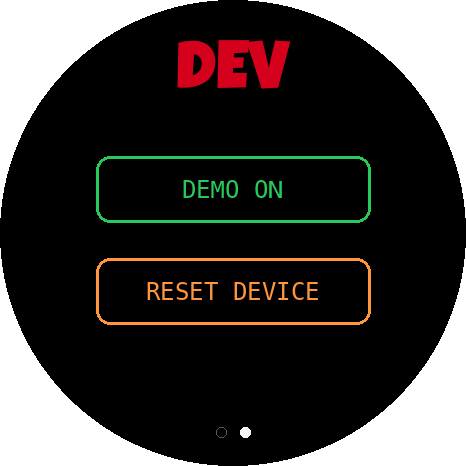
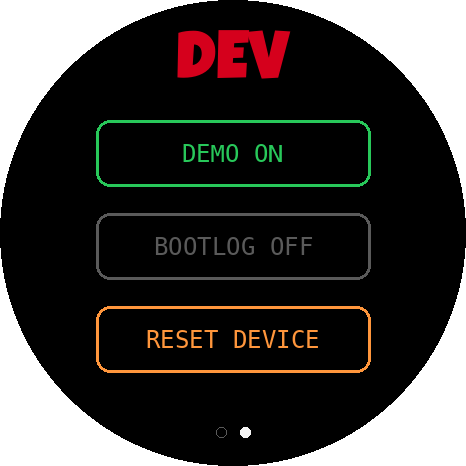
Add on-screen boot-log console, toggled from the dev actions page
New persisted BOOTLOG toggle (NVS): when on, every startup mirrors the
LOG lines (boot, touch, wifi, sign-in, websocket) to the display as a
live console, so connection problems can be debugged without a
computer. Tap the screen (or wait BOOTLOG_HOLD_MS) to continue to the
normal UI; the toggle stays on for future boots until switched off.

- log.h: LOGF/LOGLN also feed the bootlog line buffer (spinlock-
  protected ring; liveTask logs from core 0 land via a dirty flag,
  never rendering off the UI core).
- Dev actions page now stacks three buttons (DEMO / BOOTLOG / RESET)
  in new DEV_BTN_*_Y slots; the modal/backflush BTN_*_Y slots are
  unchanged. Factory reset clears the bootlog toggle too.
- Mockups: regenerate 07-dev-actions for the three-button layout.

Changed region(s): [[0.1803, 0.2403, 0.8112, 0.7811], [0.3605, 0.0601, 0.6309, 0.2103], [0.2103, 0.7811, 0.7811, 0.8112]]

diff --git a/firmware/src/main.cpp b/firmware/src/main.cpp
@@ -1,5 +1,6 @@
 #include <Arduino.h>
 
+#include "bootlog.h"
 #include "config.h"
 #include "display.h"
 #include "lm_client.h"
@@ -170,6 +171,7 @@ static void repaintCurrent() {
 }
 
 void setup() {
+    bootlogInit();  // before the first LOG line, so the console captures everything
     Serial.begin(115200);
     delay(300);  // let USB CDC enumerate so early logs aren't lost
     LOGLN("\n[boot] La Marzocco brew-timer display");
@@ -179,11 +181,17 @@ void setup() {
     displayInit();
     LOGLN("[boot] display init done");
 
-    displayLogo();
-    delay(1800);
+    if (bootlogActive()) {
+        bootlogSetInline(true);  // boot phase is single-threaded: redraw per LOG line
+        displayBootlog();        // show what was captured before the panel was up
+    } else {
+        displayLogo();
+        delay(1800);
+    }
 
     touchBegin();
     lmBegin();  // connects WiFi + NTP and starts the cloud poller (LIVE mode)
+    bootlogSetInline(false);  // from here loop() drives redraws (liveTask logs from core 0)
     g_mode = MODE_IDLE;
     g_idleScreen = -1;  // idle screen renders on the first loop
 }
@@ -191,6 +199,24 @@ void setup() {
 void loop() {
     lmPoll();
     uint32_t now = millis();
+
+    // Boot-log console: shown from power-on while the dev toggle is on. A tap (or the
+    // BOOTLOG_HOLD_MS timeout) leaves it for this boot; the toggle itself stays on.
+    if (bootlogActive()) {
+        int bx = 0, by = 0;
+        static bool blPrevDown = false;
+        bool blDown = touchPoint(&bx, &by);
+        bool blTap = blDown && !blPrevDown;
+        blPrevDown = blDown;
+        if (blTap || now >= BOOTLOG_HOLD_MS) {
+            bootlogDismiss();
+            g_idleScreen = -1;  // fall through to the normal UI next loop
+        } else if (bootlogTakeDirty()) {
+            displayBootlog();
+        }
+        delay(33);
+        return;
+    }
 
     // Always return to the status page after the machine powers off (consistent start order).
     static bool prevOff = true;
@@ -283,11 +309,12 @@ void loop() {
     bool tapConsumed = false;
     if (rising && g_dev) {
         const int M = 12;
-        bool a = inRect(tx, ty, BTN_X - M, BTN_A_Y - M, BTN_W + 2 * M, BTN_H + 2 * M);
-        bool b = inRect(tx, ty, BTN_X - M, BTN_B_Y - M, BTN_W + 2 * M, BTN_H + 2 * M);
         if (g_confirmReset) {
+            bool a = inRect(tx, ty, BTN_X - M, BTN_A_Y - M, BTN_W + 2 * M, BTN_H + 2 * M);
+            bool b = inRect(tx, ty, BTN_X - M, BTN_B_Y - M, BTN_W + 2 * M, BTN_H + 2 * M);
             if (a) {  // CONFIRM reset
                 displaySplash("RESETTING", "");
+                bootlogSetEnabled(false);  // factory reset clears the boot-log toggle too
                 lmFactoryReset();
                 delay(400);
                 ESP.restart();
@@ -296,12 +323,19 @@ void loop() {
                 g_devRedraw = true;
             }
             tapConsumed = true;  // modal swallows all taps (no accidental close)
-        } else if (g_devPage == 1) {
+        } else if (g_devPage == 1) {  // three stacked buttons: DEMO / BOOTLOG / RESET
+            bool a = inRect(tx, ty, BTN_X - M, DEV_BTN_A_Y - M, BTN_W + 2 * M, BTN_H + 2 * M);
+            bool b = inRect(tx, ty, BTN_X - M, DEV_BTN_B_Y - M, BTN_W + 2 * M, BTN_H + 2 * M);
+            bool c = inRect(tx, ty, BTN_X - M, DEV_BTN_C_Y - M, BTN_W + 2 * M, BTN_H + 2 * M);
             if (a) {  // DEMO toggle
                 lmSetDemo(!lmDemo());
                 g_devRedraw = true;
                 tapConsumed = true;
-            } else if (b) {  // RESET -> confirm
+            } else if (b) {  // BOOTLOG toggle (persisted; console shows on the next boots)
+                bootlogSetEnabled(!bootlogEnabled());
+                g_devRedraw = true;
+                tapConsumed = true;
+            } else if (c) {  // RESET -> confirm
                 g_confirmReset = true;
                 g_devRedraw = true;
                 tapConsumed = true;
@@ -370,7 +404,7 @@ void loop() {
             if (g_confirmReset)
                 displayResetConfirm();
             else if (g_devPage == 1)
-                displayDevActions(lmDemo());
+                displayDevActions(lmDemo(), bootlogEnabled());
             else
                 displayDevInfo(lmState(), down ? 1 : 0, lmDemo());
             g_lastDevRender = now;

diff --git a/firmware/src/bootlog.cpp b/firmware/src/bootlog.cpp
@@ -1,0 +1,80 @@
+#include "bootlog.h"
+
+#include <Arduino.h>
+#include <Preferences.h>
+
+#include "display.h"
+
+// NOTE: no LOG macros in here — log.h feeds bootlogAdd(), which would recurse.
+
+static char g_buf[BOOTLOG_LINES][BOOTLOG_COLS + 1];
+static int g_head = 0;  // next slot to write
+static int g_used = 0;
+static bool g_enabled = false;
+static bool g_active = false;
+static bool g_inline = false;
+static volatile bool g_dirty = false;
+static portMUX_TYPE g_mux = portMUX_INITIALIZER_UNLOCKED;
+
+void bootlogInit() {
+    Preferences p;
+    p.begin("bootlog", true);
+    g_enabled = p.getBool("on", false);
+    p.end();
+    g_active = g_enabled;  // capture from the very first LOG line
+}
+
+bool bootlogEnabled() { return g_enabled; }
+
+void bootlogSetEnabled(bool on) {
+    g_enabled = on;
+    Preferences p;
+    p.begin("bootlog", false);
+    p.putBool("on", on);
+    p.end();
+}
+
+bool bootlogActive() { return g_active; }
+void bootlogDismiss() { g_active = false; }
+
+bool bootlogTakeDirty() {
+    bool d = g_dirty;
+    g_dirty = false;
+    return d;
+}
+
+void bootlogSetInline(bool on) { g_inline = on; }
+
+void bootlogAdd(const char *line) {
+    if (!g_active || !line) return;
+    while (*line == '\n' || *line == '\r') line++;  // strip the leading blank of banners
+    if (!*line) return;
+
+    char tmp[BOOTLOG_COLS + 1];
+    int n = 0;
+    for (; n < BOOTLOG_COLS && line[n] && line[n] != '\n' && line[n] != '\r'; n++) tmp[n] = line[n];
+    tmp[n] = 0;
+
+    portENTER_CRITICAL(&g_mux);
+    memcpy(g_buf[g_head], tmp, n + 1);
+    g_head = (g_head + 1) % BOOTLOG_LINES;
+    if (g_used < BOOTLOG_LINES) g_used++;
+    portEXIT_CRITICAL(&g_mux);
+    g_dirty = true;
+
+    // Immediate redraw during the single-threaded boot phase. liveTask (core 0) must never
+    // touch the canvas — its lines land via the dirty flag and the UI loop instead.
+    if (g_inline && xPortGetCoreID() == 1) {
+        displayBootlog();
+        g_dirty = false;
+    }
+}
+
+int bootlogGetLines(char out[][BOOTLOG_COLS + 1], int max) {
+    portENTER_CRITICAL(&g_mux);
+    int n = g_used < max ? g_used : max;
+    int start = (g_head - g_used + BOOTLOG_LINES) % BOOTLOG_LINES;
+    for (int i = 0; i < n; i++) memcpy(out[i], g_buf[(start + i) % BOOTLOG_LINES], BOOTLOG_COLS + 1);
+    portEXIT_CRITICAL(&g_mux);
+    return n;
+}

diff --git a/firmware/src/display.cpp b/firmware/src/display.cpp
@@ -3,6 +3,7 @@
 #include <Arduino.h>
 #include <Arduino_GFX_Library.h>
 
+#include "bootlog.h"
 #include "config.h"
 #include "log.h"
 #include "fonts/LuckiestGuy36.h"
@@ -371,15 +372,38 @@ void displayDevInfo(const BrewState &s, int touchPoints, bool demoEnabled) {
     canvas->flush();
 }
 
-void displayDevActions(bool demoEnabled) {
+void displayDevActions(bool demoEnabled, bool bootlogOn) {
     uint16_t green = gfx->color565(120, 200, 165);
     uint16_t amber = gfx->color565(255, 150, 60);
     canvas->fillScreen(COL_BG);
-    drawCentered("DEV", 74, &LuckiestGuy36pt7b, COL_LM_RED);
-    drawButton(BTN_X, BTN_A_Y, BTN_W, BTN_H, demoEnabled ? "DEMO ON" : "DEMO OFF",
+    drawCentered("DEV", 64, &LuckiestGuy36pt7b, COL_LM_RED);
+    drawButton(BTN_X, DEV_BTN_A_Y, BTN_W, BTN_H, demoEnabled ? "DEMO ON" : "DEMO OFF",
                demoEnabled ? green : COL_DIM);
-    drawButton(BTN_X, BTN_B_Y, BTN_W, BTN_H, "RESET DEVICE", amber);
+    drawButton(BTN_X, DEV_BTN_B_Y, BTN_W, BTN_H, bootlogOn ? "BOOTLOG ON" : "BOOTLOG OFF",
+               bootlogOn ? green : COL_DIM);
+    drawButton(BTN_X, DEV_BTN_C_Y, BTN_W, BTN_H, "RESET DEVICE", amber);
     drawPageDots();
+    canvas->flush();
+}
+
+// Boot-log console: the most recent LOG lines, updated live while starting up.
+void displayBootlog() {
+    canvas->fillScreen(COL_BG);
+    drawCenteredClassic("BOOT LOG", 56, 2, COL_LM_RED);
+
+    char lines[BOOTLOG_LINES][BOOTLOG_COLS + 1];
+    int n = bootlogGetLines(lines, BOOTLOG_LINES);
+    canvas->setFont(NULL);
+    canvas->setTextSize(2);
+    canvas->setTextColor(COL_FG);
+    int y = 92;
+    for (int i = 0; i < n; i++) {
+        canvas->setCursor(70, y);
+        canvas->print(lines[i]);
+        y += 22;
+    }
+
+    drawCenteredClassic("tap to continue", 414, 2, COL_DIM);
     canvas->flush();
 }
 

diff --git a/firmware/src/bootlog.h b/firmware/src/bootlog.h
@@ -1,0 +1,27 @@
+// On-screen boot log. When the persisted toggle is ON, startup log lines (LOGF/LOGLN) are
+// mirrored to the display so WiFi/cloud issues can be debugged without a computer attached.
+// The console shows until tapped (or BOOTLOG_HOLD_MS); the toggle itself stays on across
+// boots until it's switched off on the dev actions page.
+#pragma once
+
+#include <cstddef>
+
+#define BOOTLOG_LINES 14  // console keeps the most recent lines
+#define BOOTLOG_COLS 27   // longer lines are truncated to fit the round panel
+
+void bootlogInit();               // load the persisted toggle; call FIRST in setup()
+bool bootlogEnabled();            // persisted toggle (shown on the dev actions page)
+void bootlogSetEnabled(bool on);  // persist; takes effect on the next boot
+
+bool bootlogActive();    // console is capturing/showing this boot
+void bootlogDismiss();   // leave the console for this boot (toggle stays as-is)
+bool bootlogTakeDirty(); // true once after new lines arrived (clears the flag)
+
+// Append one line (no-op unless active). Thread-safe; called from the LOG macros.
+void bootlogAdd(const char *line);
+
+// While true (single-threaded boot phase, UI core only) bootlogAdd() redraws immediately.
+void bootlogSetInline(bool on);
+
+// Copy the current lines (oldest first) into out; returns the count. For the renderer.
+int bootlogGetLines(char out[][BOOTLOG_COLS + 1], int max);

diff --git a/tools/render_mockups.py b/tools/render_mockups.py
@@ -60,6 +60,7 @@ ST_GREEN=(120,200,165); ST_AMBER=(255,170,40); WS_MINT=(120,210,175)
 CLOUD=(140,155,175); DEV_GRN=(40,200,90); DEV_RED=(230,60,50); ACT_AMB=(255,150,60)
 
 BTN_X, BTN_W, BTN_H, BTN_A_Y, BTN_B_Y = 96, 274, 66, 156, 258  # config.h
+DEV_BTN_A_Y, DEV_BTN_B_Y, DEV_BTN_C_Y = 120, 213, 306  # dev actions page (3 buttons)
 
 def lg(px):   return ImageFont.truetype(LG, px)
 def mono(px): return ImageFont.truetype(MONO, px) if MONO else ImageFont.load_default()
@@ -212,12 +213,14 @@ def render_machine_off(name):
     classic(d, "MACHINE OFF", 360, 4, DIM)
     page_dots(d, 0, 2); save(img, name)
 
-def render_dev_actions(name, demo_on=True):
+def render_dev_actions(name, demo_on=True, bootlog_on=False):
     img = canvas(); d = ImageDraw.Draw(img)
-    centered(d, "DEV", 74, lg(68), LM_RED)
-    button(d, BTN_X, BTN_A_Y, BTN_W, BTN_H, "DEMO ON" if demo_on else "DEMO OFF",
+    centered(d, "DEV", 64, lg(68), LM_RED)
+    button(d, BTN_X, DEV_BTN_A_Y, BTN_W, BTN_H, "DEMO ON" if demo_on else "DEMO OFF",
            DEV_GRN if demo_on else DIM)
-    button(d, BTN_X, BTN_B_Y, BTN_W, BTN_H, "RESET DEVICE", ACT_AMB)
+    button(d, BTN_X, DEV_BTN_B_Y, BTN_W, BTN_H, "BOOTLOG ON" if bootlog_on else "BOOTLOG OFF",
+           DEV_GRN if bootlog_on else DIM)
+    button(d, BTN_X, DEV_BTN_C_Y, BTN_W, BTN_H, "RESET DEVICE", ACT_AMB)
     page_dots(d, 1, 2); save(img, name)
 
 def render_dev_info(name):

diff --git a/firmware/include/config.h b/firmware/include/config.h
@@ -48,13 +48,20 @@
 #define DEBUG_LOG 1
 #endif
 
-// Dev "actions" page: two big, easy-tap buttons (top = DEMO / CONFIRM, bottom = RESET / CANCEL).
-// Same slots are reused by the reset-confirm modal. Kept inside the round panel.
+// Big, easy-tap buttons kept inside the round panel. The two BTN_*_Y slots are used by the
+// confirm modals (reset, backflush) and the backflush page; the dev "actions" page stacks
+// three buttons (DEMO / BOOTLOG / RESET) in its own DEV_BTN_*_Y slots.
 #define BTN_X 96
 #define BTN_W 274
 #define BTN_H 66
-#define BTN_A_Y 156  // top button
-#define BTN_B_Y 258  // bottom button
+#define BTN_A_Y 156  // top button (modals / backflush)
+#define BTN_B_Y 258  // bottom button (modals / backflush)
+#define DEV_BTN_A_Y 120
+#define DEV_BTN_B_Y 213
+#define DEV_BTN_C_Y 306
+
+// Boot-log console (dev toggle): if nobody taps it away, leave it this long after power-on.
+#define BOOTLOG_HOLD_MS 120000
 
 // STARTUP_TEST: on boot, cycle RED/GREEN/BLUE/WHITE + ramp brightness to prove the panel
 // works independent of the UI. Flip to 1 if you ever need to debug the display again.

diff --git a/firmware/src/log.h b/firmware/src/log.h
@@ -1,13 +1,25 @@
 // Verbose logging, gated by DEBUG_LOG (config.h). Flip DEBUG_LOG to 1 to re-enable.
+// Lines also feed the on-screen boot-log console (bootlog.h) while it's capturing.
 #pragma once
 
 #include <Arduino.h>
 
+#include "bootlog.h"
 #include "config.h"
 
 #if DEBUG_LOG
-#define LOGF(...) Serial.printf(__VA_ARGS__)
-#define LOGLN(x) Serial.println(x)
+#define LOGF(...)                                 \
+    do {                                          \
+        char _lb[120];                            \
+        snprintf(_lb, sizeof(_lb), __VA_ARGS__);  \
+        Serial.print(_lb);                        \
+        bootlogAdd(_lb);                          \
+    } while (0)
+#define LOGLN(x)            \
+    do {                    \
+        Serial.println(x);  \
+        bootlogAdd(x);      \
+    } while (0)
 #else
 #define LOGF(...) \
     do {          \

diff --git a/firmware/src/display.h b/firmware/src/display.h
@@ -18,8 +18,11 @@ void displayLogo();
 // Develop mode page 1: diagnostics overlay (mode, wifi/ip/signin/cloud/status/heap/touch/err).
 void displayDevInfo(const BrewState &s, int touchPoints, bool demoEnabled);
 
-// Develop mode page 2: big DEMO toggle + RESET buttons.
-void displayDevActions(bool demoEnabled);
+// Develop mode page 2: big DEMO / BOOTLOG toggles + RESET button.
+void displayDevActions(bool demoEnabled, bool bootlogOn);
+
+// Boot-log console: recent LOG lines, live while starting up (see bootlog.h).
+void displayBootlog();
 
 // Reset confirmation modal: CONFIRM / CANCEL.
 void displayResetConfirm();
